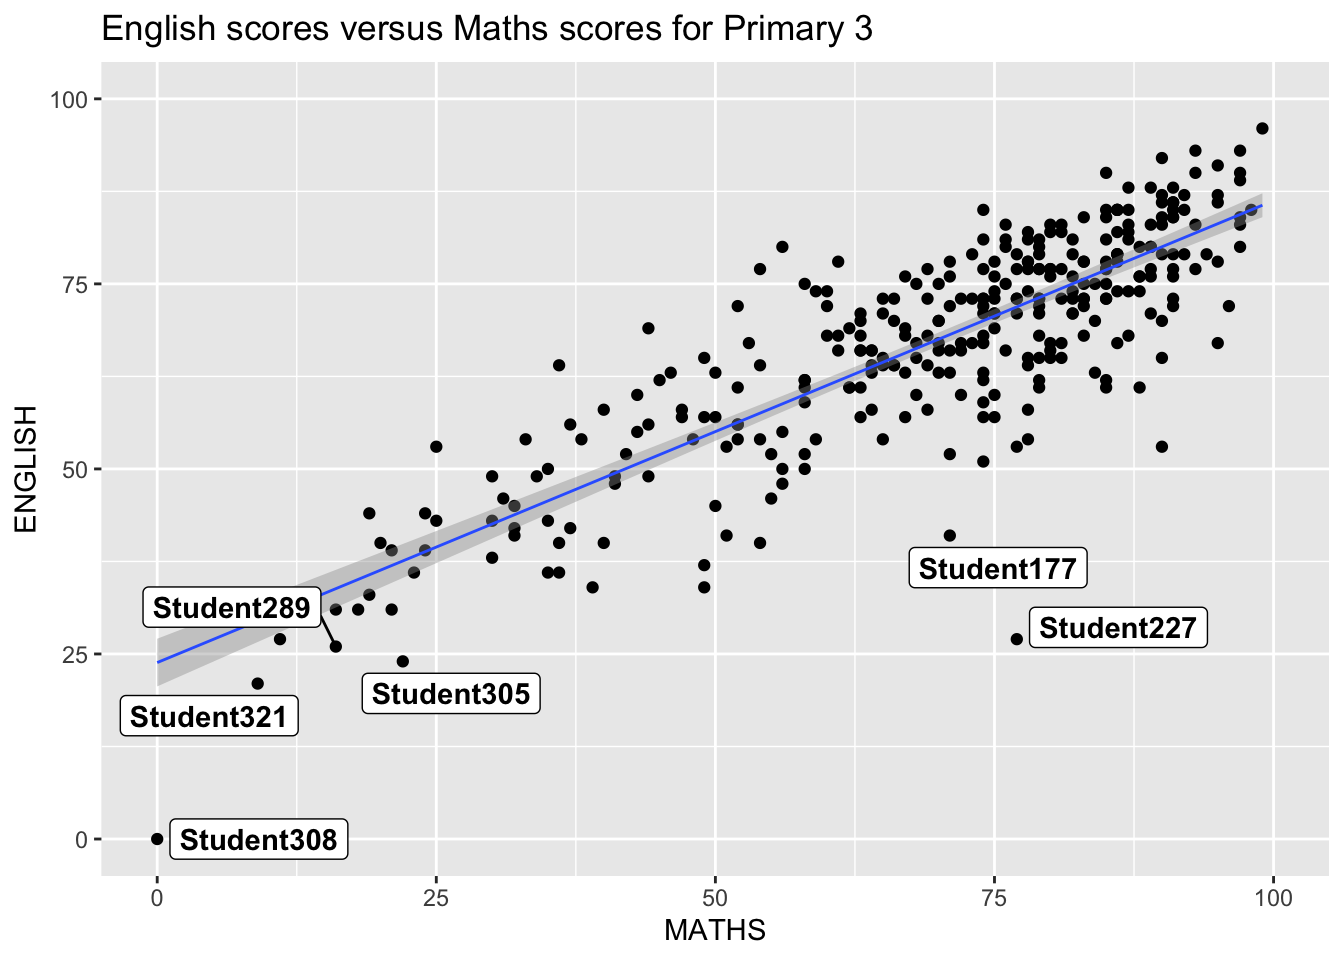
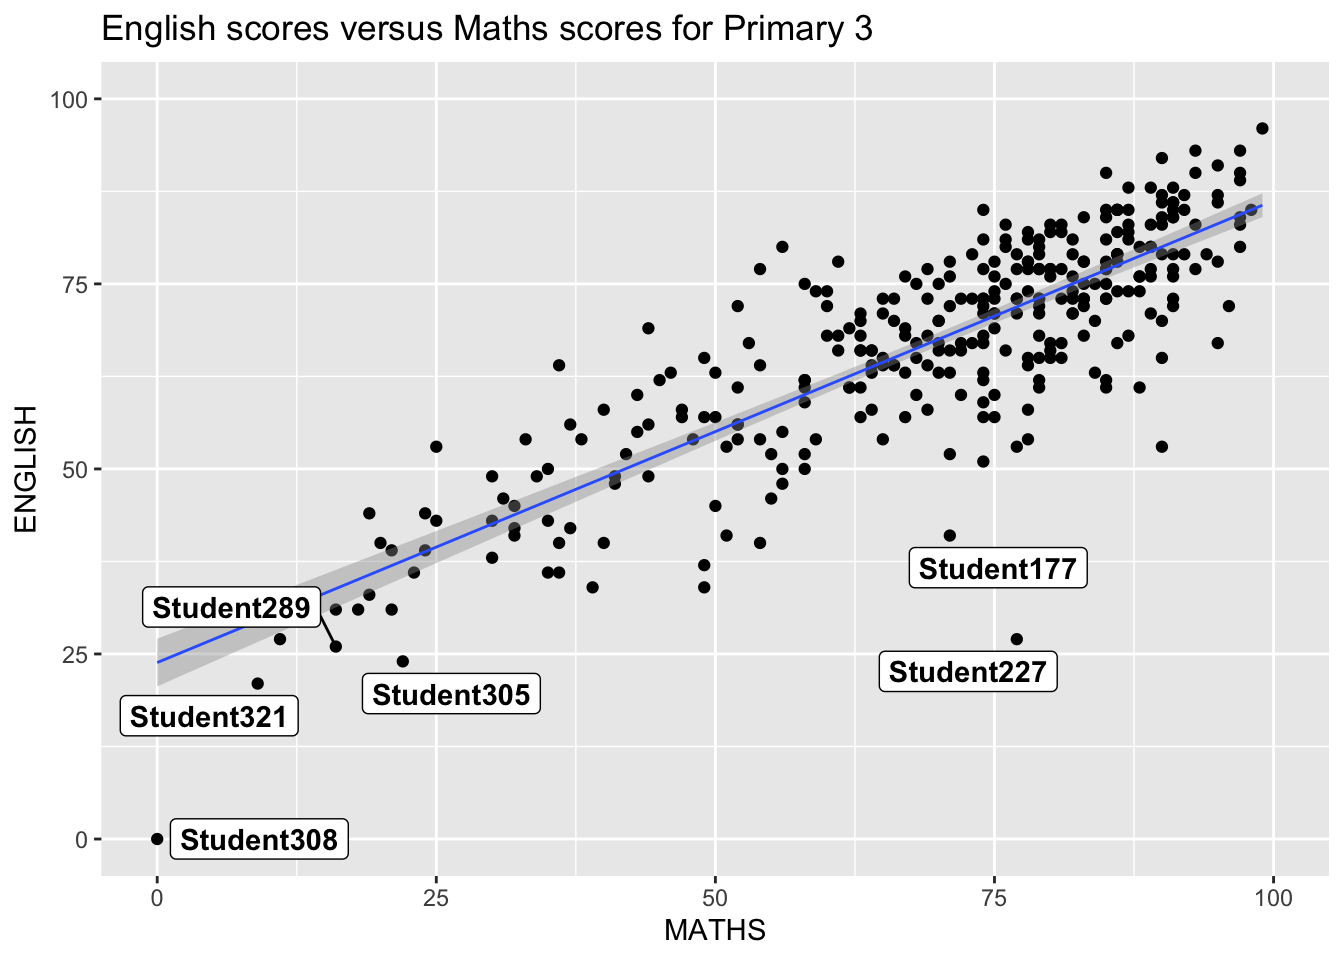
updated

diff --git a/project 1/ISSS608/_site/Hands-on_Ex/Hands-on_Ex02/Hands-on_Ex02.html b/project 1/ISSS608/_site/Hands-on_Ex/Hands-on_Ex02/Hands-on_Ex02.html
@@ -368,7 +368,15 @@ pre > code.sourceCode > span > a:first-child::before { text-decoration: underlin
 <span id="cb12-5"><a href="#cb12-5" aria-hidden="true" tabindex="-1"></a>                 <span class="at">color=</span><span class="st">"grey25"</span>, </span>
 <span id="cb12-6"><a href="#cb12-6" aria-hidden="true" tabindex="-1"></a>                 <span class="at">fill=</span><span class="st">"grey90"</span>) <span class="sc">+</span> </span>
 <span id="cb12-7"><a href="#cb12-7" aria-hidden="true" tabindex="-1"></a>  <span class="fu">coord_cartesian</span>(<span class="at">xlim=</span><span class="fu">c</span>(<span class="dv">0</span>,<span class="dv">100</span>)) <span class="sc">+</span></span>
-<span id="cb12-8"><a href="#cb12-8" aria-hidden="true" tabindex="-1"></a>  <span class="fu">ggtitle</span>(<span class="st">"Distribution of Maths scores"</span>)</span></code></pre></div><button title="Copy to Clipboard" class="code-copy-button"><i class="bi"></i></button></div>
+<span id="cb12-8"><a href="#cb12-8" aria-hidden="true" tabindex="-1"></a>  <span class="fu">ggtitle</span>(<span class="st">"Distribution of Maths scores"</span>)</span>
+<span id="cb12-9"><a href="#cb12-9" aria-hidden="true" tabindex="-1"></a>p1</span></code></pre></div><button title="Copy to Clipboard" class="code-copy-button"><i class="bi"></i></button></div>
+<div class="cell-output-display">
+<div>
+<figure class="figure">
+<p><img src="Hands-on_Ex02_files/figure-html/unnamed-chunk-11-1.png" class="img-fluid figure-img" width="672"></p>
+</figure>
+</div>
+</div>
 </div>
 <div class="cell">
 <div class="code-copy-outer-scaffold"><div class="sourceCode cell-code" id="cb13"><pre class="sourceCode r code-with-copy"><code class="sourceCode r"><span id="cb13-1"><a href="#cb13-1" aria-hidden="true" tabindex="-1"></a>p2 <span class="ot">&lt;-</span> <span class="fu">ggplot</span>(<span class="at">data=</span>exam_data, </span>
@@ -378,7 +386,15 @@ pre > code.sourceCode > span > a:first-child::before { text-decoration: underlin
 <span id="cb13-5"><a href="#cb13-5" aria-hidden="true" tabindex="-1"></a>                 <span class="at">color=</span><span class="st">"grey25"</span>, </span>
 <span id="cb13-6"><a href="#cb13-6" aria-hidden="true" tabindex="-1"></a>                 <span class="at">fill=</span><span class="st">"grey90"</span>) <span class="sc">+</span></span>
 <span id="cb13-7"><a href="#cb13-7" aria-hidden="true" tabindex="-1"></a>  <span class="fu">coord_cartesian</span>(<span class="at">xlim=</span><span class="fu">c</span>(<span class="dv">0</span>,<span class="dv">100</span>)) <span class="sc">+</span></span>
-<span id="cb13-8"><a href="#cb13-8" aria-hidden="true" tabindex="-1"></a>  <span class="fu">ggtitle</span>(<span class="st">"Distribution of English scores"</span>)</span></code></pre></div><button title="Copy to Clipboard" class="code-copy-button"><i class="bi"></i></button></div>
+<span id="cb13-8"><a href="#cb13-8" aria-hidden="true" tabindex="-1"></a>  <span class="fu">ggtitle</span>(<span class="st">"Distribution of English scores"</span>)</span>
+<span id="cb13-9"><a href="#cb13-9" aria-hidden="true" tabindex="-1"></a>p2</span></code></pre></div><button title="Copy to Clipboard" class="code-copy-button"><i class="bi"></i></button></div>
+<div class="cell-output-display">
+<div>
+<figure class="figure">
+<p><img src="Hands-on_Ex02_files/figure-html/unnamed-chunk-12-1.png" class="img-fluid figure-img" width="672"></p>
+</figure>
+</div>
+</div>
 </div>
 <div class="cell">
 <div class="code-copy-outer-scaffold"><div class="sourceCode cell-code" id="cb14"><pre class="sourceCode r code-with-copy"><code class="sourceCode r"><span id="cb14-1"><a href="#cb14-1" aria-hidden="true" tabindex="-1"></a>p3 <span class="ot">&lt;-</span> <span class="fu">ggplot</span>(<span class="at">data=</span>exam_data, </span>
@@ -389,7 +405,15 @@ pre > code.sourceCode > span > a:first-child::before { text-decoration: underlin
 <span id="cb14-6"><a href="#cb14-6" aria-hidden="true" tabindex="-1"></a>              <span class="at">size=</span><span class="fl">0.5</span>) <span class="sc">+</span>  </span>
 <span id="cb14-7"><a href="#cb14-7" aria-hidden="true" tabindex="-1"></a>  <span class="fu">coord_cartesian</span>(<span class="at">xlim=</span><span class="fu">c</span>(<span class="dv">0</span>,<span class="dv">100</span>),</span>
 <span id="cb14-8"><a href="#cb14-8" aria-hidden="true" tabindex="-1"></a>                  <span class="at">ylim=</span><span class="fu">c</span>(<span class="dv">0</span>,<span class="dv">100</span>)) <span class="sc">+</span></span>
-<span id="cb14-9"><a href="#cb14-9" aria-hidden="true" tabindex="-1"></a>  <span class="fu">ggtitle</span>(<span class="st">"English scores versus Maths scores for Primary 3"</span>)</span></code></pre></div><button title="Copy to Clipboard" class="code-copy-button"><i class="bi"></i></button></div>
+<span id="cb14-9"><a href="#cb14-9" aria-hidden="true" tabindex="-1"></a>  <span class="fu">ggtitle</span>(<span class="st">"English scores versus Maths scores for Primary 3"</span>)</span>
+<span id="cb14-10"><a href="#cb14-10" aria-hidden="true" tabindex="-1"></a>p3</span></code></pre></div><button title="Copy to Clipboard" class="code-copy-button"><i class="bi"></i></button></div>
+<div class="cell-output-display">
+<div>
+<figure class="figure">
+<p><img src="Hands-on_Ex02_files/figure-html/unnamed-chunk-13-1.png" class="img-fluid figure-img" width="672"></p>
+</figure>
+</div>
+</div>
 </div>
 <section id="combining-two-ggplot2-graphs" class="level3">
 <h3 class="anchored" data-anchor-id="combining-two-ggplot2-graphs">Combining two ggplot2 graphs</h3>

diff --git a/project 1/ISSS608/_site/about.html b/project 1/ISSS608/_site/about.html
@@ -136,6 +136,10 @@ pre > code.sourceCode > span > a:first-child::before { text-decoration: underlin
     <a class="dropdown-item" href="./Hands-on_Ex/Hands-on_Ex01/Hands-on_Ex01.html">
  <span class="dropdown-text">Hands-on Exercise 1</span></a>
   </li>  
+        <li>
+    <a class="dropdown-item" href="./Hands-on_Ex/Hands-on_Ex02/Hands-on_Ex02.html">
+ <span class="dropdown-text">Hands-on Exercise 2</span></a>
+  </li>  
     </ul>
   </li>
 </ul>

diff --git a/project 1/ISSS608/_site/index.html b/project 1/ISSS608/_site/index.html
@@ -101,6 +101,10 @@ ul.task-list li input[type="checkbox"] {
     <a class="dropdown-item" href="./Hands-on_Ex/Hands-on_Ex01/Hands-on_Ex01.html">
  <span class="dropdown-text">Hands-on Exercise 1</span></a>
   </li>  
+        <li>
+    <a class="dropdown-item" href="./Hands-on_Ex/Hands-on_Ex02/Hands-on_Ex02.html">
+ <span class="dropdown-text">Hands-on Exercise 2</span></a>
+  </li>  
     </ul>
   </li>
 </ul>
